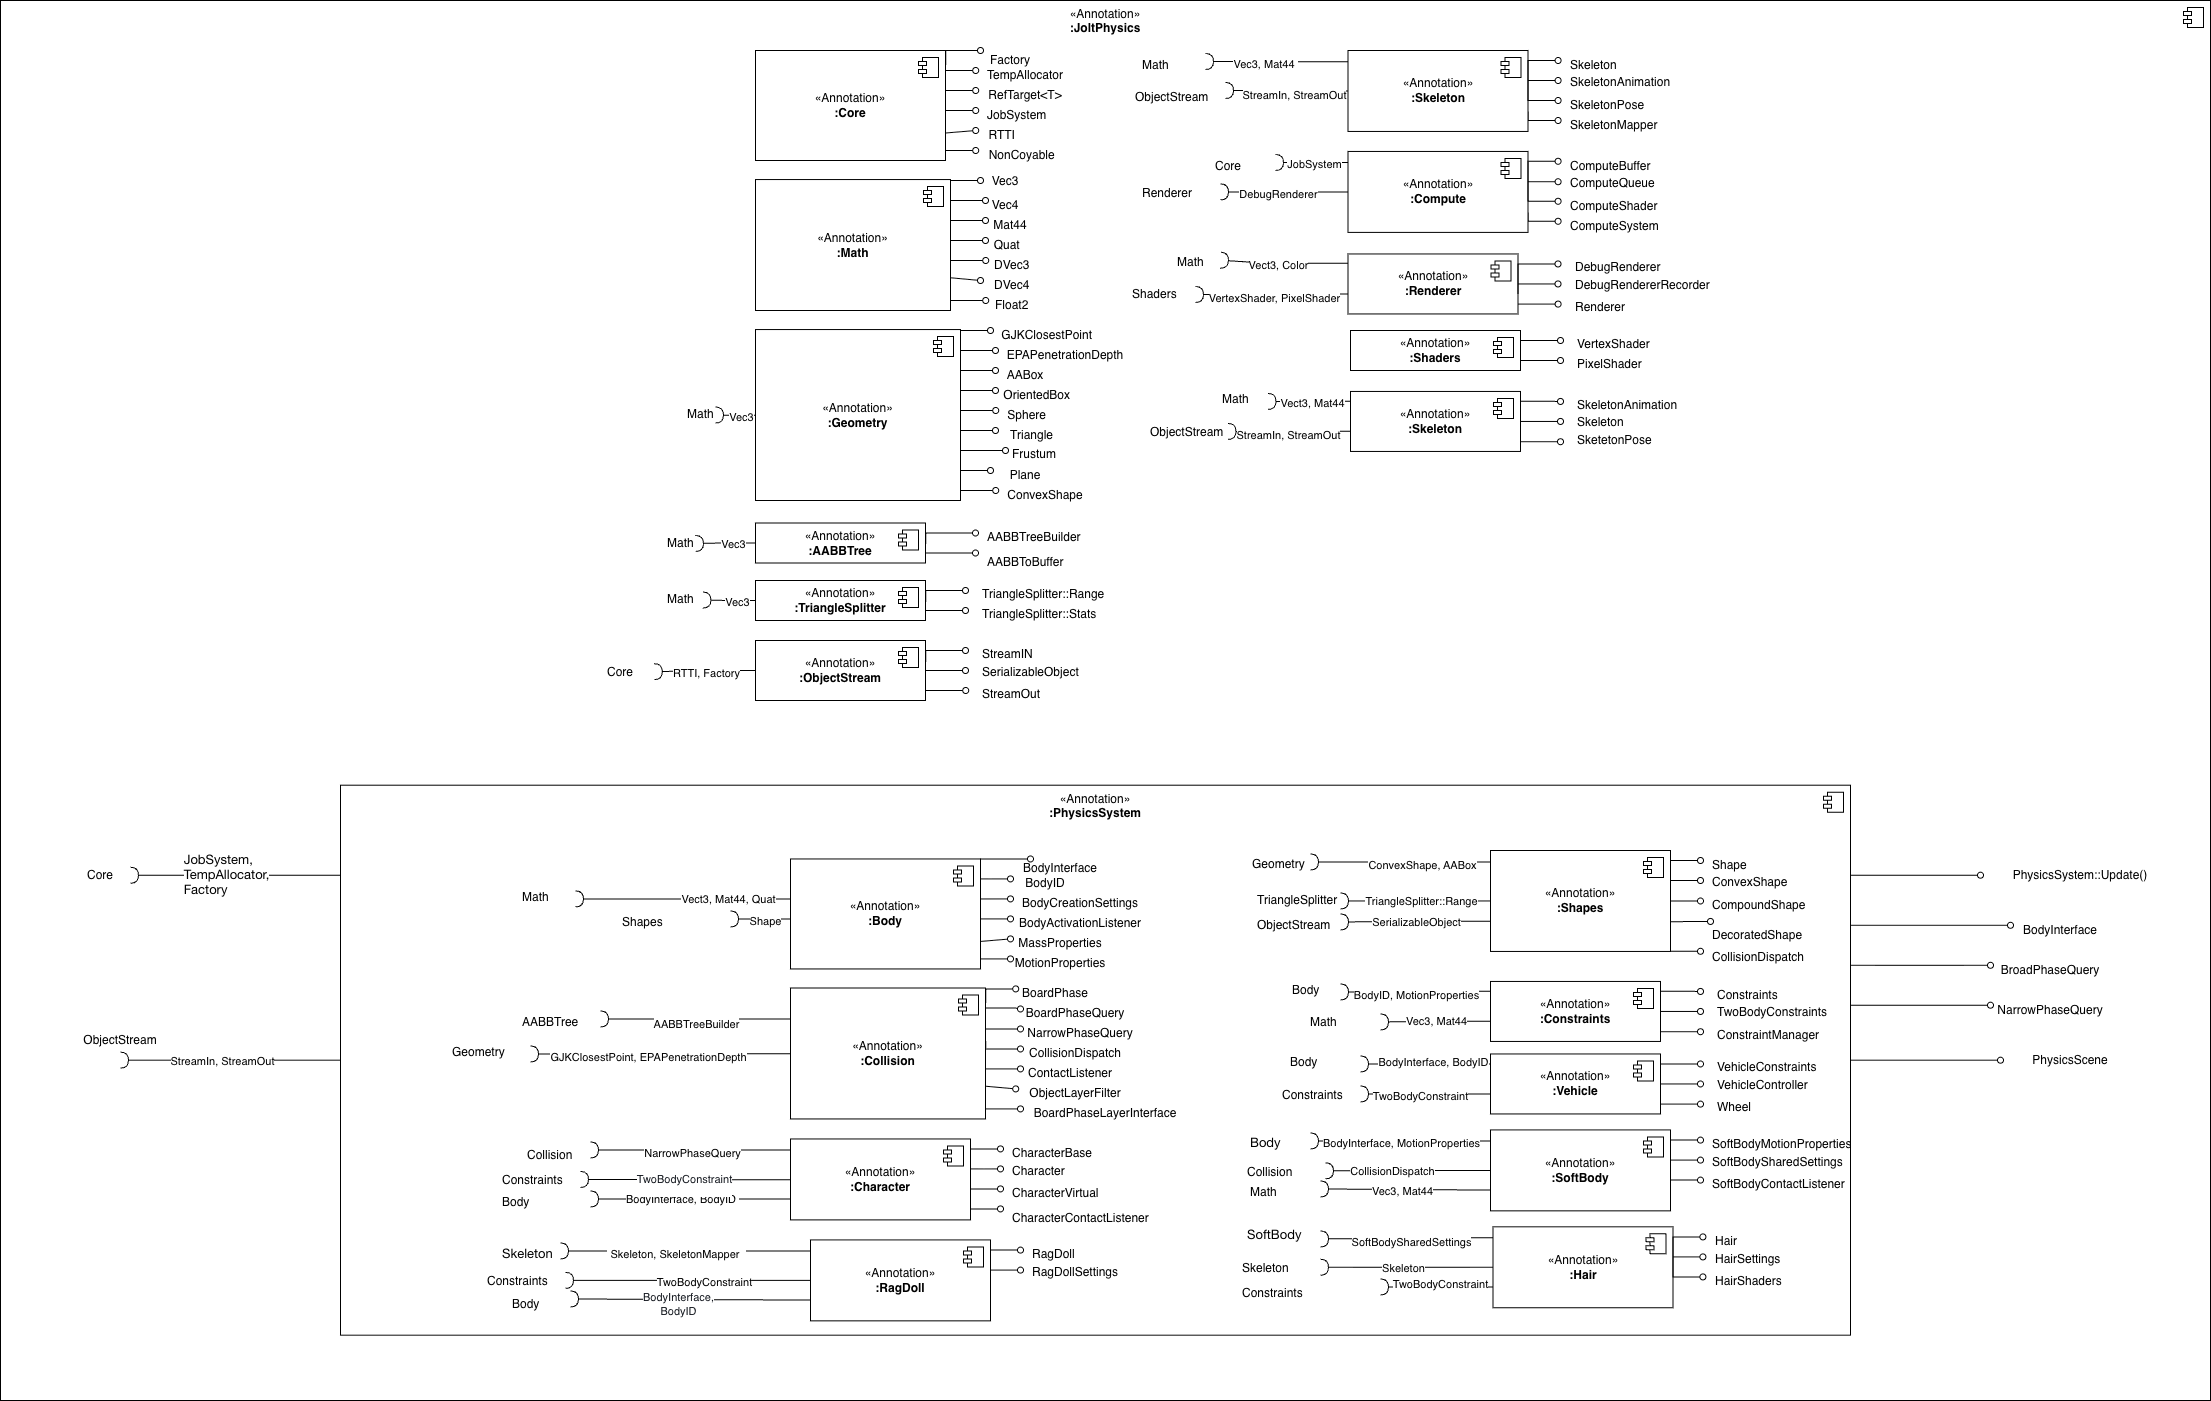
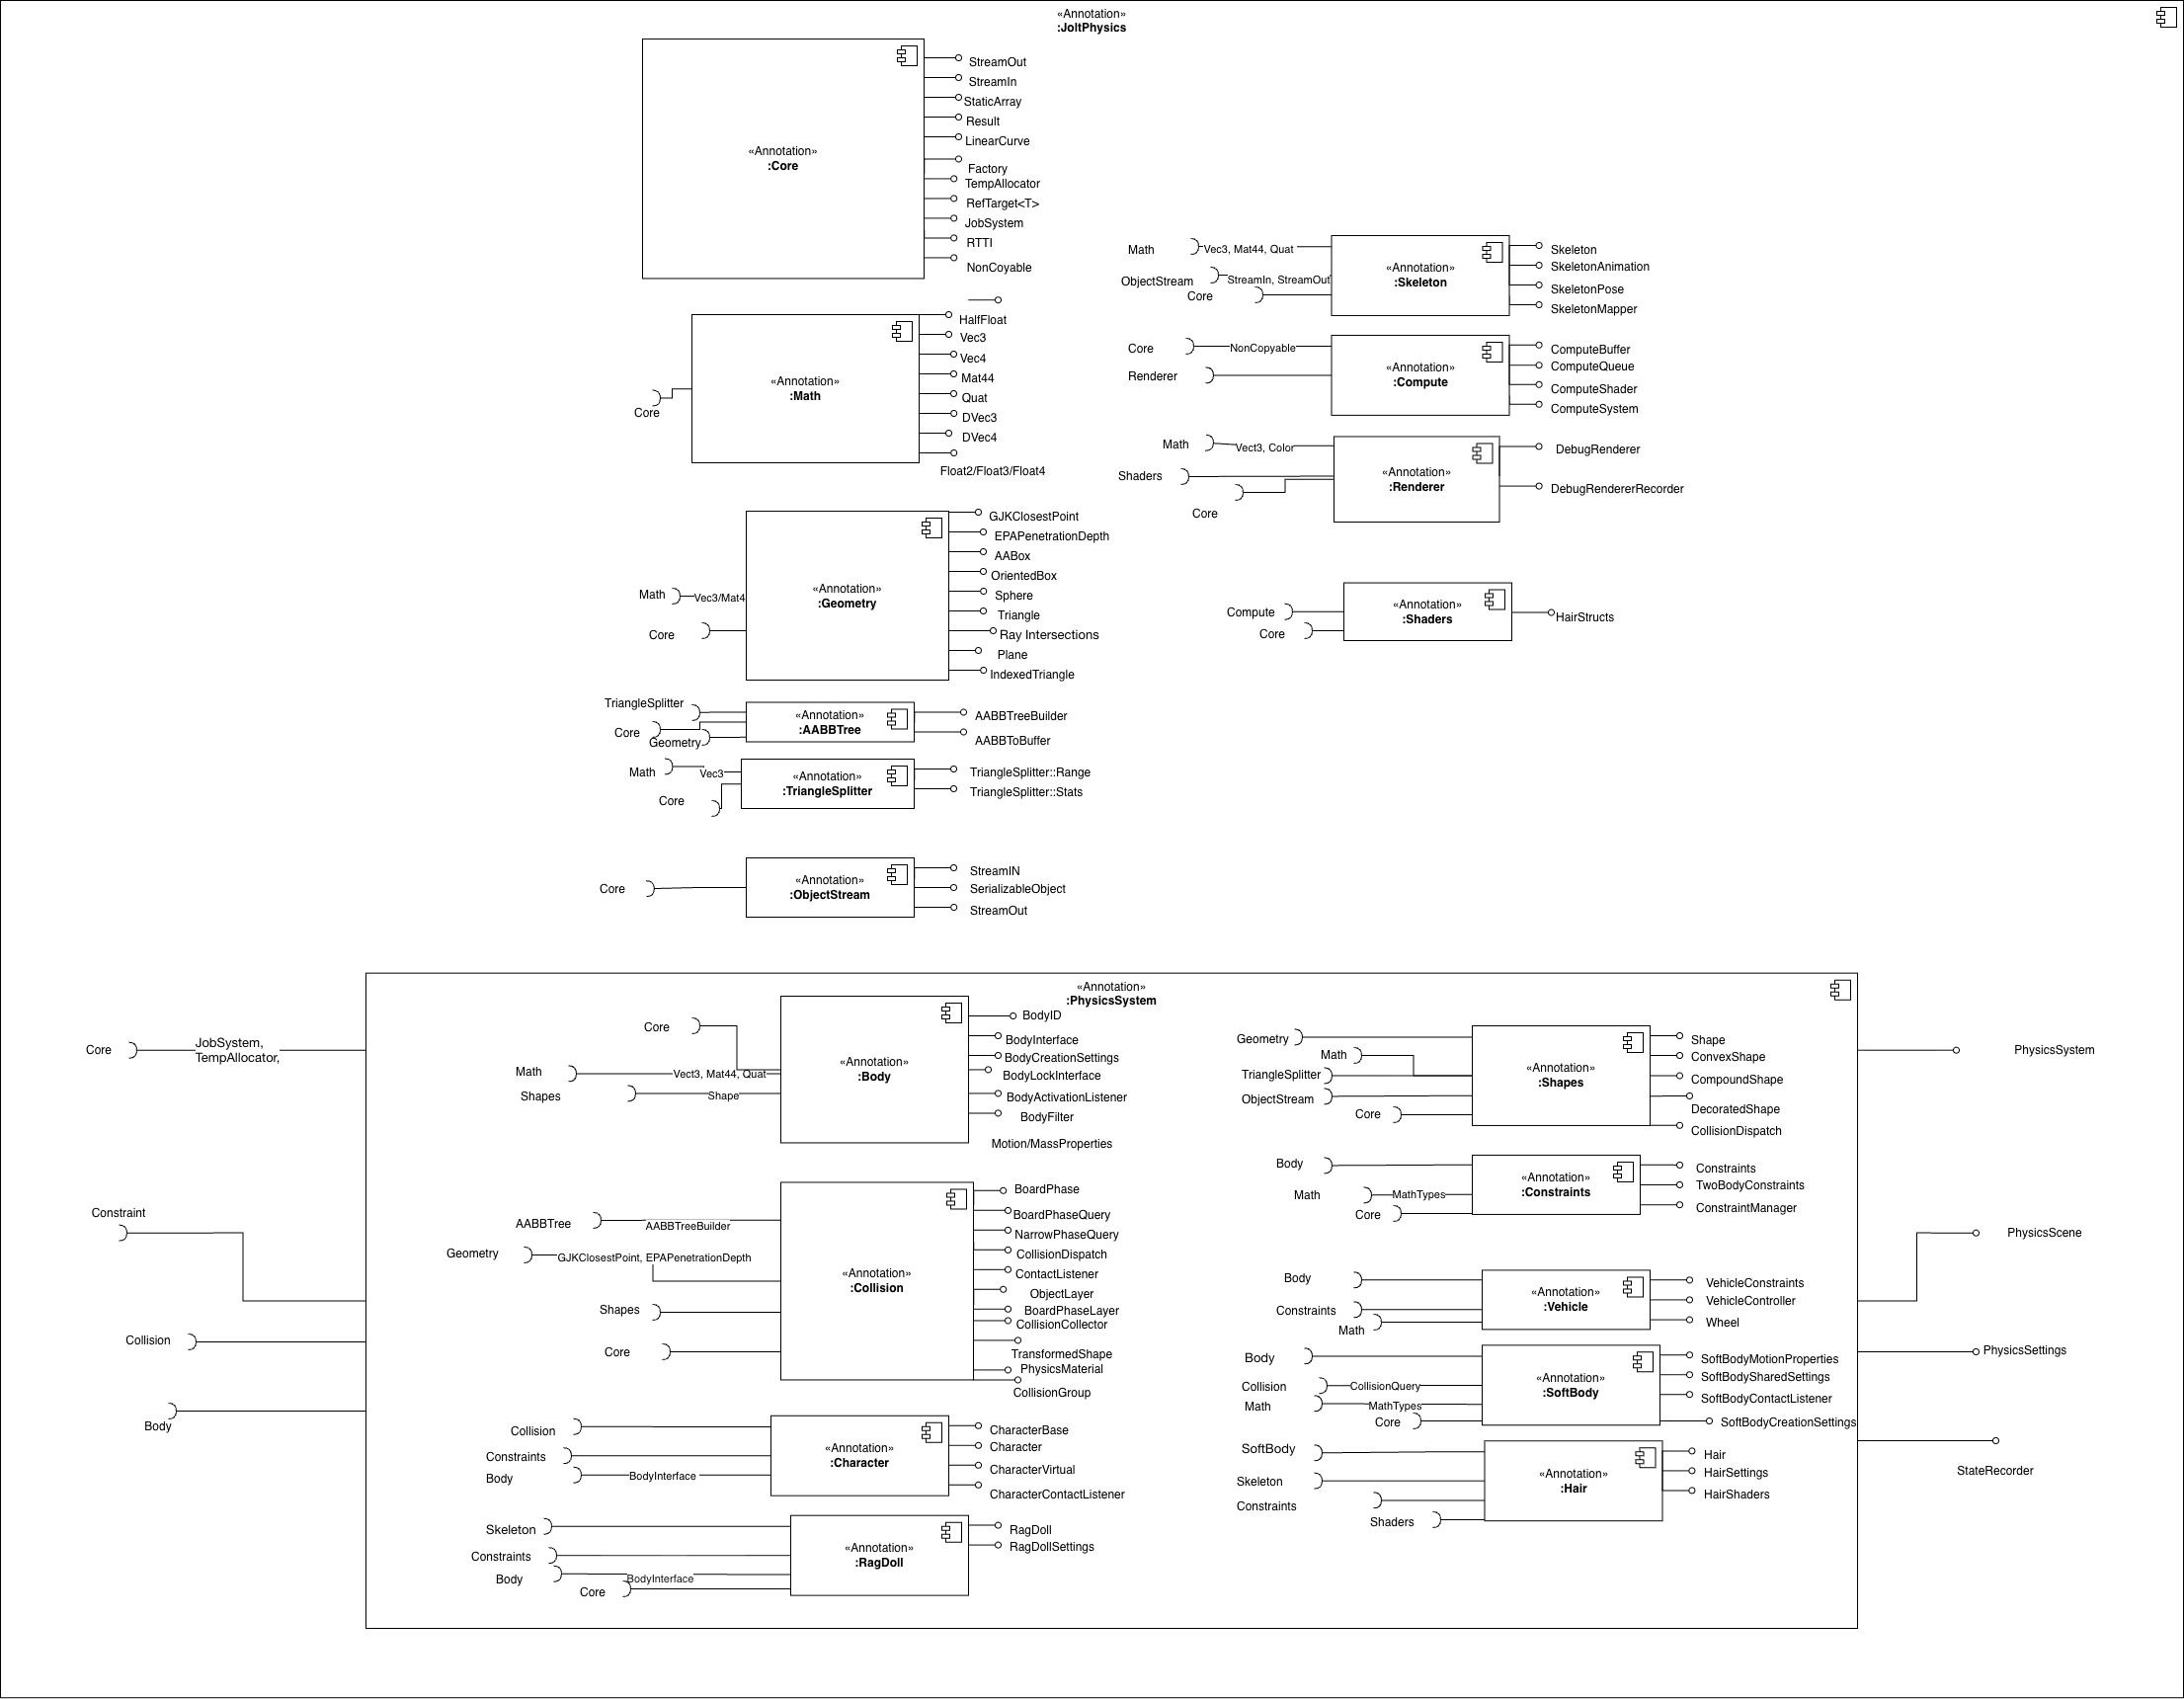
Correct component diagram using SourceTrail and align with actual codebase

diff --git a/journals/Namrah_Siddiqui.md b/journals/Namrah_Siddiqui.md
@@ -43,4 +43,5 @@ I analyzed how the main components inside the system are organized. I continued 
 ## Journal Entry – 26 May
 I worked on documenting Architectural characteristics.
 
-
+## Journal Entry – 28 May
+Reviewed and corrected the component-level architecture diagram using SourceTrail for better dependency tracing. Cross-checked the diagram against the actual implementation in the codebase to ensure accurate representation of components & relationships